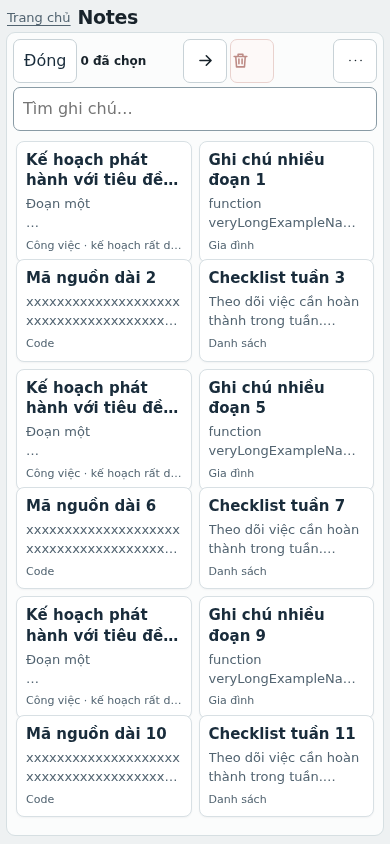
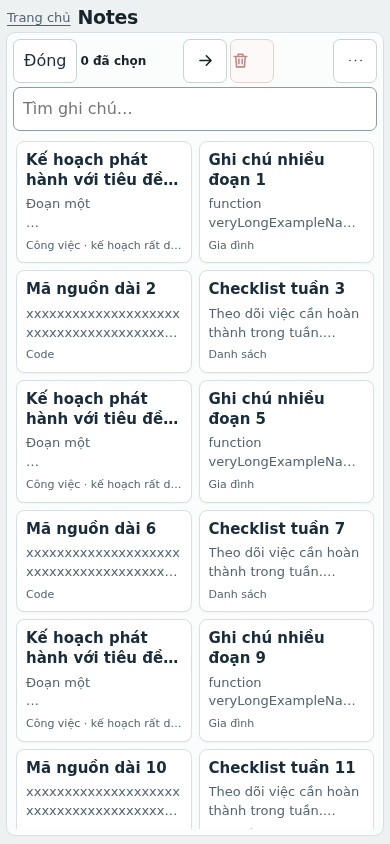
fix: size note grid rows to card content

diff --git a/public/app.css b/public/app.css
@@ -1,4 +1,4 @@
-:root{font-family:system-ui,sans-serif;color:#18232b;background:#eef1f2;line-height:1.5;--ink:#18232b;--muted:#526471;--line:#d3dcdf;--paper:#fff;--green:#205a43;--focus:#007fa7;--safe-t:env(safe-area-inset-top,0px);--safe-b:env(safe-area-inset-bottom,0px);--keyboard-inset:0px;color-scheme:light}*{box-sizing:border-box}html,body{width:100%;height:100%;margin:0}body{min-width:320px;overflow:hidden;background:#eef1f2}main{height:100dvh;min-height:0;display:flex;flex-direction:column;gap:6px;margin:0;padding:calc(8px + var(--safe-t)) 12px calc(8px + var(--safe-b));overflow:hidden}.app-header{flex:0 0 auto;display:flex;align-items:center;gap:8px;padding:0 3px}.app-header h1{margin:0;font-size:20px;line-height:1.2;letter-spacing:-.02em}.home-link{color:#526471;font-size:13px;text-underline-offset:3px}a{color:#064f85}button,input,textarea,select{font:inherit}button{min-width:44px;min-height:44px;padding:6px 10px;border:1px solid #c8d2d7;border-radius:7px;background:#fff;color:#192c3b;cursor:pointer}button:disabled{opacity:.55;cursor:default}button svg,.action-menu>summary svg{width:19px;height:19px;display:block;fill:none;stroke:currentColor;stroke-width:2;stroke-linecap:round;stroke-linejoin:round}.action-menu>summary svg circle{fill:currentColor;stroke:none}button svg,.action-menu>summary svg{width:19px;height:19px;display:block;fill:none;stroke:currentColor;stroke-width:2;stroke-linecap:round;stroke-linejoin:round}.action-menu>summary svg circle{fill:currentColor;stroke:none}button:hover:not(:disabled){background:#eaf1f4}button:focus-visible,input:focus-visible,textarea:focus-visible,select:focus-visible,summary:focus-visible,a:focus-visible{outline:3px solid var(--focus);outline-offset:2px}input:not([type=checkbox]),textarea,select{width:100%;min-width:0;padding:9px;border:1px solid #899ba5;border-radius:7px;background:#fff;color:var(--ink)}input[type=checkbox]{width:22px;height:22px;vertical-align:middle;accent-color:#176077}textarea{overflow-wrap:anywhere;white-space:pre-wrap;word-break:break-word}summary{min-height:44px;display:flex;align-items:center;justify-content:center;cursor:pointer;font-weight:600;list-style:none}summary::-webkit-details-marker{display:none}[hidden]{display:none!important}.visually-hidden{position:absolute!important;width:1px;height:1px;padding:0;margin:-1px;overflow:hidden;clip:rect(0,0,0,0);white-space:nowrap;border:0}#sync-banner{position:relative;z-index:4;flex:0 0 auto;min-height:22px;display:flex;align-items:center;padding:1px 8px;color:#526471;font-size:12px}#sync-banner[data-state=normal]{display:none}#sync-banner[data-state=notice]{display:flex}#sync-banner[data-state=error],#sync-banner[data-state=conflict]{min-height:34px;border:1px solid #d7a18b;border-radius:6px;background:#fff0e9;color:#752e1a}#sync-progress{position:absolute;inset:0 auto auto 0;width:100%;height:3px;background:#197690}#login{flex:0 0 auto;max-width:460px;margin:16px auto;padding:20px}#login form{display:grid;gap:8px}#workspace{position:relative;flex:1 1 auto;min-width:0;min-height:0;display:flex;flex-direction:column;gap:0;overflow:hidden}#workspace.selection-active #new,#workspace.selection-active #select-mode,#workspace.selection-active #folder-collapse-toggle{display:none}.action-menu{position:relative;margin:0;padding:0;border:0;background:transparent}.action-menu>summary{min-width:44px;padding:0 9px;border:1px solid #c8d2d7;border-radius:7px;background:#fff}.action-menu>summary:hover{background:#eaf1f4}.menu-panel{position:absolute;z-index:70;right:0;top:calc(100% + 5px);width:min(300px,calc(100vw - 24px));max-height:min(70dvh,620px);overflow:auto;padding:8px;border:1px solid #c4d0d5;border-radius:8px;background:#fff;box-shadow:0 8px 26px #14212c38}.menu-panel-portal{position:fixed;inset:auto;z-index:1000;width:min(300px,calc(100vw - 24px));min-width:min(220px,calc(100vw - 24px));max-width:calc(100vw - 24px);max-height:min(620px,calc(100dvh - 16px));overflow:auto;margin:0;padding:8px;border:1px solid #c4d0d5;border-radius:8px;background:#fff;box-shadow:0 8px 26px #14212c38}.menu-panel>button{display:block;width:100%;margin:2px 0;text-align:left}.layout{flex:1 1 auto;min-height:0;min-width:0;display:grid;grid-template-columns:220px minmax(0,1fr);gap:10px}.layout>aside,#list-pane{min-width:0;min-height:0;border:1px solid #d6dfe2;border-radius:9px;background:#fff}#folder-panel{display:flex;flex-direction:column;gap:8px;overflow:auto;padding:10px 8px;background:#f7f9f9}#folder-list{min-height:0;display:flex;flex-direction:column;gap:2px;overflow:auto}.folder-row{display:flex;align-items:center;min-width:0}.folder-row>button:first-child{flex:1;min-width:0;justify-content:flex-start;overflow-wrap:anywhere;text-align:left}.folder-row .folder-share-badge{flex:0 0 44px;padding:5px;margin-left:3px}.folder-share-badge{font-size:12px}#folder-panel #folder-list>button{width:100%;justify-content:flex-start;text-align:left}#folder-panel #folder-list>button,#folder-panel .folder-row>button:first-child{border-color:transparent;background:transparent;box-shadow:none}#folder-panel #folder-list>button:hover,#folder-panel .folder-row>button:first-child:hover{background:#e8eef0}#folder-panel [aria-pressed=true]{background:#e2edf0!important;font-weight:650}#folder-controls{flex:0 0 auto;margin:0;padding:0;border:0;border-radius:0;background:transparent}#folder-controls>button,#folder-controls>input,#folder-controls>select{margin-top:7px}.folder-manager-panel{display:block;position:static;width:auto;max-height:none;overflow:visible;padding:4px;border:0;box-shadow:none}.folder-manager-panel>button{min-height:44px}#folder-controls label{display:flex;align-items:center;gap:8px;margin:8px 0}#folder-controls input[type=checkbox]{flex:0 0 22px;width:22px}.folder-collapsed .layout{grid-template-columns:60px minmax(0,1fr)}.folder-collapsed #folder-panel{padding-inline:5px}.folder-collapsed #folder-panel .folder-label,.folder-collapsed #folder-controls>summary{font-size:0}.folder-collapsed #folder-panel #folder-list>button,.folder-collapsed #folder-panel .folder-row>button:first-child{justify-content:center;padding-inline:4px}.folder-collapsed #folder-controls:not([open]){padding:0 3px}.folder-collapsed #folder-controls:not([open])>summary:before{content:'+';font-size:18px}#list-pane{display:flex;flex-direction:column;overflow:hidden;padding:9px;background:#fbfcfc}.list-heading{flex:0 0 auto;display:flex;align-items:center;gap:5px;gap:5px;margin:0 0 5px;min-height:44px}.list-heading h2{flex:1;min-width:0;margin:0;font-size:17px;overflow-wrap:anywhere}#folder-drawer-toggle{display:none}.search-field{flex:0 0 auto;display:flex;align-items:center;margin:0 0 8px}.search-field input{min-height:44px}.quick-create{flex:0 0 auto;width:100%;min-height:48px;margin:0 0 8px;padding:8px 14px;border:1px solid #d3dcdf;border-radius:24px;background:#fff;text-align:left;color:#526471;box-shadow:0 1px 3px #14212c0c}.grid{min-height:0;flex:1;display:grid;grid-template-columns:repeat(auto-fit,minmax(min(100%,260px),1fr));align-content:start;align-items:start;gap:8px;overflow:auto;overscroll-behavior:contain;padding:2px 3px 12px}.card{position:relative;display:flex;flex:0 0 auto;min-width:0;min-height:86px;flex-direction:column;align-items:stretch;gap:3px;padding:9px 11px;overflow:hidden;border:1px solid #d8e0e4;border-radius:8px;background:#fff;text-align:left;box-shadow:0 1px 2px #14212c0b}.card:hover{background:#f5f8f9;border-color:#b7c8d3}.card:focus-visible{outline:3px solid var(--focus);outline-offset:1px}.card strong{display:-webkit-box;overflow:hidden;-webkit-box-orient:vertical;-webkit-line-clamp:2;font-size:15px;line-height:1.35;font-weight:650;overflow-wrap:anywhere;white-space:normal}.card p{min-width:0;margin:2px 0;overflow:hidden;display:-webkit-box;-webkit-box-orient:vertical;-webkit-line-clamp:2;color:#526471;font-size:13px;line-height:1.45;overflow-wrap:anywhere;white-space:pre-wrap}.card small{display:block;overflow:hidden;color:#526471;font-size:11px;text-overflow:ellipsis;white-space:nowrap}.card[aria-current=true]{background:#eaf2f8;border-color:#8eacc0;border-left:3px solid #2878a8;padding-left:9px}.card[aria-pressed=true]{border:2px solid #176b8d;background:#deeff7;padding:8px 10px}.card[aria-current=true][aria-pressed=true]{box-shadow:inset 4px 0 var(--green)}.list-empty{grid-column:1/-1;margin:8px;color:var(--muted)}#bulk-toolbar{flex:1 1 auto;display:flex;align-items:center;gap:4px;min-width:0;margin:0;padding:0;background:transparent}#bulk-toolbar>span{flex:1 1 auto;min-width:40px;margin:0;font-size:13px;font-weight:650}#bulk-toolbar button,#bulk-toolbar .action-menu>summary{min-height:44px}#bulk-toolbar .bulk-menu>div:not(.menu-panel){position:absolute;z-index:80;left:0;top:calc(100% + 4px);width:min(300px,calc(100vw - 24px));max-height:min(65dvh,520px);overflow:auto;padding:8px;border:1px solid var(--line);border-radius:8px;background:#fff;box-shadow:0 8px 24px #14212c30}#bulk-toolbar .bulk-menu>div button{display:block;width:100%;margin:3px 0;text-align:left}#bulk-toolbar .bulk-menu label{margin:3px 0}#bulk-toolbar .bulk-menu select{margin-bottom:5px}#bulk-delete{color:#8c3026;border-color:#dbb0aa;background:#fff7f5}#bulk-more-menu{margin-left:auto}#editor-backdrop:not([hidden]){position:fixed;z-index:90;inset:0;display:block;width:100%;height:100%;border:0;border-radius:0;background:#18232b77;box-shadow:none}#editor{position:fixed;z-index:91;inset:5dvh 5vw;display:flex;flex-direction:column;min-width:0;min-height:0;overflow:hidden;border:1px solid #c8d2d7;border-radius:12px;background:#fff;box-shadow:0 18px 60px #14212c50}#editor[hidden]{display:none!important}.editor-top{position:relative;z-index:2;flex:0 0 auto;min-height:54px;display:flex;align-items:center;gap:5px;padding:5px 10px;border-bottom:1px solid var(--line);background:#fff}.editor-top #close-editor{margin-right:auto;white-space:nowrap}.editor-top #save-status{flex:0 1 auto;min-width:0;max-width:30%;margin:0;padding:4px 7px;border:0;border-radius:5px;background:#eef3f4;font-size:12px;overflow-wrap:anywhere}.editor-top #save-status[data-state=error],.editor-top #save-status[data-state=conflict],.editor-top #save-status[data-state=local-error]{background:#fff0e9;color:#752e1a}.editor-top .action-menu>summary{font-size:13px}.editor-save-top{flex:0 0 auto;background:var(--green);border-color:var(--green);color:#fff;font-weight:650}.editor-scroll{min-height:0;flex:1;overflow:auto;overscroll-behavior:contain;scrollbar-gutter:stable}.editor-content{width:min(100%,1040px);min-height:100%;display:flex;flex-direction:column;margin:0 auto;padding:22px clamp(22px,5vw,70px) 30px}.editor-content textarea#title{display:block;flex:0 0 auto;min-height:1.5em;max-height:5em;overflow-y:hidden;resize:none;padding:0;border:0;background:transparent;font-size:clamp(20px,2vw,24px);font-weight:650;line-height:1.3;letter-spacing:-.02em;box-shadow:none}.note-meta{flex:0 0 auto;display:flex;align-items:center;gap:7px;margin:8px 0 10px}.note-meta>label:first-child{position:absolute;width:1px;height:1px;overflow:hidden;clip:rect(0,0,0,0)}.note-meta>input{flex:0 1 280px;min-height:40px;border-radius:22px}.note-meta #pin-label{display:flex;align-items:center;gap:6px;min-height:44px;margin:0;padding:4px 10px;border:1px solid var(--line);border-radius:22px;white-space:nowrap;font-size:13px}.note-meta #pin-label input{width:22px;height:22px;margin:0}#text{display:block;flex:1 0 45vh;width:100%;min-height:260px;resize:vertical;border:0;background:transparent;padding:0;font-size:16px;line-height:1.55;letter-spacing:.004em;box-shadow:none}.check-row{display:grid;grid-template-columns:30px minmax(0,1fr) 44px;gap:7px;align-items:center;margin:7px 0}.check-row textarea{min-height:44px;resize:vertical}.check-row.done textarea{text-decoration:line-through;color:#64756e}.check-row button{width:44px;height:44px;padding:0}.editor-content #add-check{align-self:flex-start;margin-top:8px}.editor-content #copy-status{min-height:1.2em;margin:5px 0;color:#176077;font-size:13px}.editor-content #conflict{margin:12px 0;padding:12px;border:1px solid #c99147;border-radius:7px;background:#fff3d8}.editor-content #conflict p{margin:0 0 8px}.editor-content #conflict button{margin:4px}#editor-more #delete{color:#8c3026;border-color:#dbb0aa;background:#fff7f5}#editor-more #delete:hover{background:#ffebe7}#expand-composer{display:none}#editor.quick-composer{inset:auto 6vw 8px!important;height:min(320px,48dvh);min-height:210px!important;border-radius:14px 14px 8px 8px!important}.quick-composer #text{flex:1 0 100px;min-height:90px}.quick-composer #checklist,.quick-composer #add-check,.quick-composer #copy-status,.quick-composer #conflict{display:none}.quick-composer .editor-content{padding-top:10px}.quick-composer .editor-top #close-editor{font-size:0}.quick-composer .editor-top #close-editor:after{content:'Đóng';font-size:14px}.quick-composer #expand-composer{display:inline-flex;align-self:flex-start;min-height:44px}#share-result{position:fixed;z-index:80;right:14px;bottom:14px;width:min(560px,calc(100vw - 28px));max-height:50dvh;overflow:auto;margin:0;padding:12px;border:1px solid #b5c2c9;border-radius:9px;background:#fff;box-shadow:0 8px 26px #14212c38}#share-result h2{margin:0 0 4px;font-size:18px}#share-result p{margin:4px 0 8px}#share-result input{max-width:560px}#share-new-link[hidden]{display:none!important}#share-list,#all-shares{min-width:0}.share-row{padding:8px 0;border-bottom:1px solid #d0dadd;display:flex;gap:8px;align-items:center;flex-wrap:wrap}.share-row>span{flex:1;min-width:150px}.share-link-tools{display:flex;flex-wrap:wrap;gap:8px;align-items:center;flex-basis:100%;min-width:0}.share-link-tools input{flex:1 1 180px;min-width:0}.share-link-tools small{flex-basis:100%;overflow-wrap:anywhere;color:#176077}#copy-status,#share-copy-status{min-height:1.25em;color:#176077}
+:root{font-family:system-ui,sans-serif;color:#18232b;background:#eef1f2;line-height:1.5;--ink:#18232b;--muted:#526471;--line:#d3dcdf;--paper:#fff;--green:#205a43;--focus:#007fa7;--safe-t:env(safe-area-inset-top,0px);--safe-b:env(safe-area-inset-bottom,0px);--keyboard-inset:0px;color-scheme:light}*{box-sizing:border-box}html,body{width:100%;height:100%;margin:0}body{min-width:320px;overflow:hidden;background:#eef1f2}main{height:100dvh;min-height:0;display:flex;flex-direction:column;gap:6px;margin:0;padding:calc(8px + var(--safe-t)) 12px calc(8px + var(--safe-b));overflow:hidden}.app-header{flex:0 0 auto;display:flex;align-items:center;gap:8px;padding:0 3px}.app-header h1{margin:0;font-size:20px;line-height:1.2;letter-spacing:-.02em}.home-link{color:#526471;font-size:13px;text-underline-offset:3px}a{color:#064f85}button,input,textarea,select{font:inherit}button{min-width:44px;min-height:44px;padding:6px 10px;border:1px solid #c8d2d7;border-radius:7px;background:#fff;color:#192c3b;cursor:pointer}button:disabled{opacity:.55;cursor:default}button svg,.action-menu>summary svg{width:19px;height:19px;display:block;fill:none;stroke:currentColor;stroke-width:2;stroke-linecap:round;stroke-linejoin:round}.action-menu>summary svg circle{fill:currentColor;stroke:none}button svg,.action-menu>summary svg{width:19px;height:19px;display:block;fill:none;stroke:currentColor;stroke-width:2;stroke-linecap:round;stroke-linejoin:round}.action-menu>summary svg circle{fill:currentColor;stroke:none}button:hover:not(:disabled){background:#eaf1f4}button:focus-visible,input:focus-visible,textarea:focus-visible,select:focus-visible,summary:focus-visible,a:focus-visible{outline:3px solid var(--focus);outline-offset:2px}input:not([type=checkbox]),textarea,select{width:100%;min-width:0;padding:9px;border:1px solid #899ba5;border-radius:7px;background:#fff;color:var(--ink)}input[type=checkbox]{width:22px;height:22px;vertical-align:middle;accent-color:#176077}textarea{overflow-wrap:anywhere;white-space:pre-wrap;word-break:break-word}summary{min-height:44px;display:flex;align-items:center;justify-content:center;cursor:pointer;font-weight:600;list-style:none}summary::-webkit-details-marker{display:none}[hidden]{display:none!important}.visually-hidden{position:absolute!important;width:1px;height:1px;padding:0;margin:-1px;overflow:hidden;clip:rect(0,0,0,0);white-space:nowrap;border:0}#sync-banner{position:relative;z-index:4;flex:0 0 auto;min-height:22px;display:flex;align-items:center;padding:1px 8px;color:#526471;font-size:12px}#sync-banner[data-state=normal]{display:none}#sync-banner[data-state=notice]{display:flex}#sync-banner[data-state=error],#sync-banner[data-state=conflict]{min-height:34px;border:1px solid #d7a18b;border-radius:6px;background:#fff0e9;color:#752e1a}#sync-progress{position:absolute;inset:0 auto auto 0;width:100%;height:3px;background:#197690}#login{flex:0 0 auto;max-width:460px;margin:16px auto;padding:20px}#login form{display:grid;gap:8px}#workspace{position:relative;flex:1 1 auto;min-width:0;min-height:0;display:flex;flex-direction:column;gap:0;overflow:hidden}#workspace.selection-active #new,#workspace.selection-active #select-mode,#workspace.selection-active #folder-collapse-toggle{display:none}.action-menu{position:relative;margin:0;padding:0;border:0;background:transparent}.action-menu>summary{min-width:44px;padding:0 9px;border:1px solid #c8d2d7;border-radius:7px;background:#fff}.action-menu>summary:hover{background:#eaf1f4}.menu-panel{position:absolute;z-index:70;right:0;top:calc(100% + 5px);width:min(300px,calc(100vw - 24px));max-height:min(70dvh,620px);overflow:auto;padding:8px;border:1px solid #c4d0d5;border-radius:8px;background:#fff;box-shadow:0 8px 26px #14212c38}.menu-panel-portal{position:fixed;inset:auto;z-index:1000;width:min(300px,calc(100vw - 24px));min-width:min(220px,calc(100vw - 24px));max-width:calc(100vw - 24px);max-height:min(620px,calc(100dvh - 16px));overflow:auto;margin:0;padding:8px;border:1px solid #c4d0d5;border-radius:8px;background:#fff;box-shadow:0 8px 26px #14212c38}.menu-panel>button{display:block;width:100%;margin:2px 0;text-align:left}.layout{flex:1 1 auto;min-height:0;min-width:0;display:grid;grid-template-columns:220px minmax(0,1fr);gap:10px}.layout>aside,#list-pane{min-width:0;min-height:0;border:1px solid #d6dfe2;border-radius:9px;background:#fff}#folder-panel{display:flex;flex-direction:column;gap:8px;overflow:auto;padding:10px 8px;background:#f7f9f9}#folder-list{min-height:0;display:flex;flex-direction:column;gap:2px;overflow:auto}.folder-row{display:flex;align-items:center;min-width:0}.folder-row>button:first-child{flex:1;min-width:0;justify-content:flex-start;overflow-wrap:anywhere;text-align:left}.folder-row .folder-share-badge{flex:0 0 44px;padding:5px;margin-left:3px}.folder-share-badge{font-size:12px}#folder-panel #folder-list>button{width:100%;justify-content:flex-start;text-align:left}#folder-panel #folder-list>button,#folder-panel .folder-row>button:first-child{border-color:transparent;background:transparent;box-shadow:none}#folder-panel #folder-list>button:hover,#folder-panel .folder-row>button:first-child:hover{background:#e8eef0}#folder-panel [aria-pressed=true]{background:#e2edf0!important;font-weight:650}#folder-controls{flex:0 0 auto;margin:0;padding:0;border:0;border-radius:0;background:transparent}#folder-controls>button,#folder-controls>input,#folder-controls>select{margin-top:7px}.folder-manager-panel{display:block;position:static;width:auto;max-height:none;overflow:visible;padding:4px;border:0;box-shadow:none}.folder-manager-panel>button{min-height:44px}#folder-controls label{display:flex;align-items:center;gap:8px;margin:8px 0}#folder-controls input[type=checkbox]{flex:0 0 22px;width:22px}.folder-collapsed .layout{grid-template-columns:60px minmax(0,1fr)}.folder-collapsed #folder-panel{padding-inline:5px}.folder-collapsed #folder-panel .folder-label,.folder-collapsed #folder-controls>summary{font-size:0}.folder-collapsed #folder-panel #folder-list>button,.folder-collapsed #folder-panel .folder-row>button:first-child{justify-content:center;padding-inline:4px}.folder-collapsed #folder-controls:not([open]){padding:0 3px}.folder-collapsed #folder-controls:not([open])>summary:before{content:'+';font-size:18px}#list-pane{display:flex;flex-direction:column;overflow:hidden;padding:9px;background:#fbfcfc}.list-heading{flex:0 0 auto;display:flex;align-items:center;gap:5px;gap:5px;margin:0 0 5px;min-height:44px}.list-heading h2{flex:1;min-width:0;margin:0;font-size:17px;overflow-wrap:anywhere}#folder-drawer-toggle{display:none}.search-field{flex:0 0 auto;display:flex;align-items:center;margin:0 0 8px}.search-field input{min-height:44px}.quick-create{flex:0 0 auto;width:100%;min-height:48px;margin:0 0 8px;padding:8px 14px;border:1px solid #d3dcdf;border-radius:24px;background:#fff;text-align:left;color:#526471;box-shadow:0 1px 3px #14212c0c}.grid{min-height:0;flex:1;display:grid;grid-template-columns:repeat(auto-fit,minmax(min(100%,260px),1fr));grid-auto-rows:max-content;align-content:start;align-items:start;gap:8px;overflow:auto;overscroll-behavior:contain;padding:2px 3px 12px}.card{position:relative;display:flex;flex:0 0 auto;min-width:0;min-height:86px;flex-direction:column;align-items:stretch;gap:3px;padding:9px 11px;overflow:hidden;border:1px solid #d8e0e4;border-radius:8px;background:#fff;text-align:left;box-shadow:0 1px 2px #14212c0b}.card:hover{background:#f5f8f9;border-color:#b7c8d3}.card:focus-visible{outline:3px solid var(--focus);outline-offset:1px}.card strong{display:-webkit-box;overflow:hidden;-webkit-box-orient:vertical;-webkit-line-clamp:2;font-size:15px;line-height:1.35;font-weight:650;overflow-wrap:anywhere;white-space:normal}.card p{min-width:0;margin:2px 0;overflow:hidden;display:-webkit-box;-webkit-box-orient:vertical;-webkit-line-clamp:2;color:#526471;font-size:13px;line-height:1.45;overflow-wrap:anywhere;white-space:pre-wrap}.card small{display:block;overflow:hidden;color:#526471;font-size:11px;text-overflow:ellipsis;white-space:nowrap}.card[aria-current=true]{background:#eaf2f8;border-color:#8eacc0;border-left:3px solid #2878a8;padding-left:9px}.card[aria-pressed=true]{border:2px solid #176b8d;background:#deeff7;padding:8px 10px}.card[aria-current=true][aria-pressed=true]{box-shadow:inset 4px 0 var(--green)}.list-empty{grid-column:1/-1;margin:8px;color:var(--muted)}#bulk-toolbar{flex:1 1 auto;display:flex;align-items:center;gap:4px;min-width:0;margin:0;padding:0;background:transparent}#bulk-toolbar>span{flex:1 1 auto;min-width:40px;margin:0;font-size:13px;font-weight:650}#bulk-toolbar button,#bulk-toolbar .action-menu>summary{min-height:44px}#bulk-toolbar .bulk-menu>div:not(.menu-panel){position:absolute;z-index:80;left:0;top:calc(100% + 4px);width:min(300px,calc(100vw - 24px));max-height:min(65dvh,520px);overflow:auto;padding:8px;border:1px solid var(--line);border-radius:8px;background:#fff;box-shadow:0 8px 24px #14212c30}#bulk-toolbar .bulk-menu>div button{display:block;width:100%;margin:3px 0;text-align:left}#bulk-toolbar .bulk-menu label{margin:3px 0}#bulk-toolbar .bulk-menu select{margin-bottom:5px}#bulk-delete{color:#8c3026;border-color:#dbb0aa;background:#fff7f5}#bulk-more-menu{margin-left:auto}#editor-backdrop:not([hidden]){position:fixed;z-index:90;inset:0;display:block;width:100%;height:100%;border:0;border-radius:0;background:#18232b77;box-shadow:none}#editor{position:fixed;z-index:91;inset:5dvh 5vw;display:flex;flex-direction:column;min-width:0;min-height:0;overflow:hidden;border:1px solid #c8d2d7;border-radius:12px;background:#fff;box-shadow:0 18px 60px #14212c50}#editor[hidden]{display:none!important}.editor-top{position:relative;z-index:2;flex:0 0 auto;min-height:54px;display:flex;align-items:center;gap:5px;padding:5px 10px;border-bottom:1px solid var(--line);background:#fff}.editor-top #close-editor{margin-right:auto;white-space:nowrap}.editor-top #save-status{flex:0 1 auto;min-width:0;max-width:30%;margin:0;padding:4px 7px;border:0;border-radius:5px;background:#eef3f4;font-size:12px;overflow-wrap:anywhere}.editor-top #save-status[data-state=error],.editor-top #save-status[data-state=conflict],.editor-top #save-status[data-state=local-error]{background:#fff0e9;color:#752e1a}.editor-top .action-menu>summary{font-size:13px}.editor-save-top{flex:0 0 auto;background:var(--green);border-color:var(--green);color:#fff;font-weight:650}.editor-scroll{min-height:0;flex:1;overflow:auto;overscroll-behavior:contain;scrollbar-gutter:stable}.editor-content{width:min(100%,1040px);min-height:100%;display:flex;flex-direction:column;margin:0 auto;padding:22px clamp(22px,5vw,70px) 30px}.editor-content textarea#title{display:block;flex:0 0 auto;min-height:1.5em;max-height:5em;overflow-y:hidden;resize:none;padding:0;border:0;background:transparent;font-size:clamp(20px,2vw,24px);font-weight:650;line-height:1.3;letter-spacing:-.02em;box-shadow:none}.note-meta{flex:0 0 auto;display:flex;align-items:center;gap:7px;margin:8px 0 10px}.note-meta>label:first-child{position:absolute;width:1px;height:1px;overflow:hidden;clip:rect(0,0,0,0)}.note-meta>input{flex:0 1 280px;min-height:40px;border-radius:22px}.note-meta #pin-label{display:flex;align-items:center;gap:6px;min-height:44px;margin:0;padding:4px 10px;border:1px solid var(--line);border-radius:22px;white-space:nowrap;font-size:13px}.note-meta #pin-label input{width:22px;height:22px;margin:0}#text{display:block;flex:1 0 45vh;width:100%;min-height:260px;resize:vertical;border:0;background:transparent;padding:0;font-size:16px;line-height:1.55;letter-spacing:.004em;box-shadow:none}.check-row{display:grid;grid-template-columns:30px minmax(0,1fr) 44px;gap:7px;align-items:center;margin:7px 0}.check-row textarea{min-height:44px;resize:vertical}.check-row.done textarea{text-decoration:line-through;color:#64756e}.check-row button{width:44px;height:44px;padding:0}.editor-content #add-check{align-self:flex-start;margin-top:8px}.editor-content #copy-status{min-height:1.2em;margin:5px 0;color:#176077;font-size:13px}.editor-content #conflict{margin:12px 0;padding:12px;border:1px solid #c99147;border-radius:7px;background:#fff3d8}.editor-content #conflict p{margin:0 0 8px}.editor-content #conflict button{margin:4px}#editor-more #delete{color:#8c3026;border-color:#dbb0aa;background:#fff7f5}#editor-more #delete:hover{background:#ffebe7}#expand-composer{display:none}#editor.quick-composer{inset:auto 6vw 8px!important;height:min(320px,48dvh);min-height:210px!important;border-radius:14px 14px 8px 8px!important}.quick-composer #text{flex:1 0 100px;min-height:90px}.quick-composer #checklist,.quick-composer #add-check,.quick-composer #copy-status,.quick-composer #conflict{display:none}.quick-composer .editor-content{padding-top:10px}.quick-composer .editor-top #close-editor{font-size:0}.quick-composer .editor-top #close-editor:after{content:'Đóng';font-size:14px}.quick-composer #expand-composer{display:inline-flex;align-self:flex-start;min-height:44px}#share-result{position:fixed;z-index:80;right:14px;bottom:14px;width:min(560px,calc(100vw - 28px));max-height:50dvh;overflow:auto;margin:0;padding:12px;border:1px solid #b5c2c9;border-radius:9px;background:#fff;box-shadow:0 8px 26px #14212c38}#share-result h2{margin:0 0 4px;font-size:18px}#share-result p{margin:4px 0 8px}#share-result input{max-width:560px}#share-new-link[hidden]{display:none!important}#share-list,#all-shares{min-width:0}.share-row{padding:8px 0;border-bottom:1px solid #d0dadd;display:flex;gap:8px;align-items:center;flex-wrap:wrap}.share-row>span{flex:1;min-width:150px}.share-link-tools{display:flex;flex-wrap:wrap;gap:8px;align-items:center;flex-basis:100%;min-width:0}.share-link-tools input{flex:1 1 180px;min-width:0}.share-link-tools small{flex-basis:100%;overflow-wrap:anywhere;color:#176077}#copy-status,#share-copy-status{min-height:1.25em;color:#176077}
 @media(max-width:960px){main{padding:calc(6px + var(--safe-t)) 8px calc(8px + var(--safe-b))}#sync-banner{font-size:11px}#workspace{gap:0}.layout{display:block}.layout>#folder-panel{position:fixed;z-index:82;inset:0 auto 0 0;width:min(84vw,330px);max-height:100dvh;padding:calc(12px + var(--safe-t)) 10px calc(12px + var(--safe-b));border-radius:0 10px 10px 0;box-shadow:10px 0 34px #12202e35;display:none}.folder-drawer-open .layout>#folder-panel{display:flex}#list-pane{height:100%;padding:9px}.list-heading{margin-bottom:5px}.list-heading h2{font-size:16px}#folder-drawer-toggle{display:inline-flex;flex:0 0 auto;align-items:center;justify-content:center;min-height:44px;padding-inline:9px}.grid{grid-template-columns:repeat(auto-fit,minmax(min(100%,250px),1fr));gap:7px}.quick-create{min-height:46px}.editor-top{min-height:50px;gap:3px;padding-inline:5px}.editor-top #save-status{max-width:26%;font-size:11px}.editor-top #close-editor{padding-inline:8px}.editor-top .action-menu>summary{min-width:44px;padding-inline:5px}.editor-save-top{min-height:44px;padding-inline:8px}.editor-content{padding:14px clamp(16px,4vw,38px) calc(20px + var(--safe-b))}.note-meta{gap:5px}.note-meta>input{flex:1 1 130px}#text{flex-basis:50vh;min-height:200px}#editor.quick-composer{inset:auto 8px calc(6px + var(--safe-b) + var(--keyboard-inset))!important;height:min(320px,58dvh);max-height:calc(100dvh - var(--keyboard-inset) - var(--safe-t) - 12px)}#drawer-backdrop:not([hidden]){position:fixed;z-index:81;inset:0;display:block;width:100%;height:100%;border:0;border-radius:0;background:#101a22a3;box-shadow:none}#editor-backdrop:not([hidden]){background:#18232b55}#editor.quick-composer{height:min(320px,58dvh);max-height:calc(100dvh - var(--keyboard-inset) - var(--safe-t) - 12px)}#share-result{bottom:calc(8px + var(--safe-b) + var(--keyboard-inset));right:8px}}
 @media(max-width:560px){main{padding-inline:6px}.app-header{gap:8px}.app-header h1{font-size:19px}.layout{min-height:0}.list-heading{gap:5px}.grid{grid-template-columns:repeat(auto-fit,minmax(min(100%,170px),1fr))}.card{min-height:75px;padding:8px 9px}.card strong{font-size:15px}.card p{font-size:13px}.quick-create{margin-bottom:6px}#bulk-toolbar{gap:3px;padding-inline:0}#bulk-toolbar>span{font-size:12px}#bulk-toolbar .action-menu>summary{width:44px;padding:0 5px}#bulk-delete{width:44px;padding:0}.editor-top{gap:2px;padding-inline:3px}.editor-top #close-editor{font-size:12px;padding-inline:6px}.editor-top #save-status{max-width:24%;padding:2px;font-size:10px}.editor-top .action-menu>summary{font-size:12px}.editor-save-top{min-width:44px;padding-inline:5px;font-size:12px}.editor-content{padding-inline:14px}.note-meta{flex-wrap:nowrap}.note-meta>input{flex:1 1 auto;min-width:0}#editor.quick-composer{inset:auto 5px calc(5px + var(--safe-b) + var(--keyboard-inset))!important}}
 @media(max-width:380px){#bulk-toolbar>span{max-width:84px;overflow:hidden;text-overflow:ellipsis;white-space:nowrap}.editor-top #save-status{max-width:20%}}

diff --git a/docs/UI-HEADER-CLEANUP-20261030/REPORT.md b/docs/UI-HEADER-CLEANUP-20261030/REPORT.md
@@ -50,3 +50,13 @@ Wrapper: `/home/admin/bin/gemini-task`, model `gemini-3.5-flash-lite`, text-only
 ## Release state
 
 Candidate only. No merge and no Production deployment. Production remains unchanged. Hosted CI will run after opening the draft PR. No physical S25 Ultra/iPad or real IME validation is claimed.
+
+## Follow-up: grid row overlap reported in phone screenshots
+
+The narrow one-column grid used implicit `auto` tracks while cards were aligned to the start. At a 360 CSS px viewport, computed rows were only 75 px high even though card boxes reached 122.7 px; the 7 px row gap therefore still allowed boxes to overlap. The fix sets `grid-auto-rows: max-content`, retaining the current columns, card sizing, preview clamp and 7 px gap. No masonry, library, or app logic was added.
+
+A dedicated synthetic Chromium test, `scripts/grid-layout-smoke.mjs`, checks long titles, multiline preview and long folder metadata at 360×844 and 390×844. It asserts the computed track mode, each card's folder metadata fits its card, content is not vertically clipped, and every card bottom plus the computed row gap is at or above the next row. It captures normal and open-sort screenshots at both widths.
+
+After the fix, computed rows at 360 px vary from 83.6 to 122.7 px; at 390 px they vary from 103.8 to 122.7 px. All successive rows have the full 7 px gap and the bounding-box assertions pass. Updated images: `after/list-phone-360.png`, `after/list-phone-390.png`, `after/sort-open-phone-360.png`, and `after/sort-open-phone-390.png`.
+
+Related verification after the fix: focused header browser test passed; dedicated grid test passed at both widths; source check passed (50 files); script syntax and `git diff --check` passed. The full local browser suite is unchanged from the prior candidate; hosted CI is being rerun for this follow-up. No speed/auth/cache/save files were edited. The separate speed worktree remains dirty in `public/app.js`, `public/cache.js`, and `scripts/browser-smoke.mjs`; this follow-up only touches CSS, the CI workflow, a new standalone test, this report, and synthetic screenshots.
